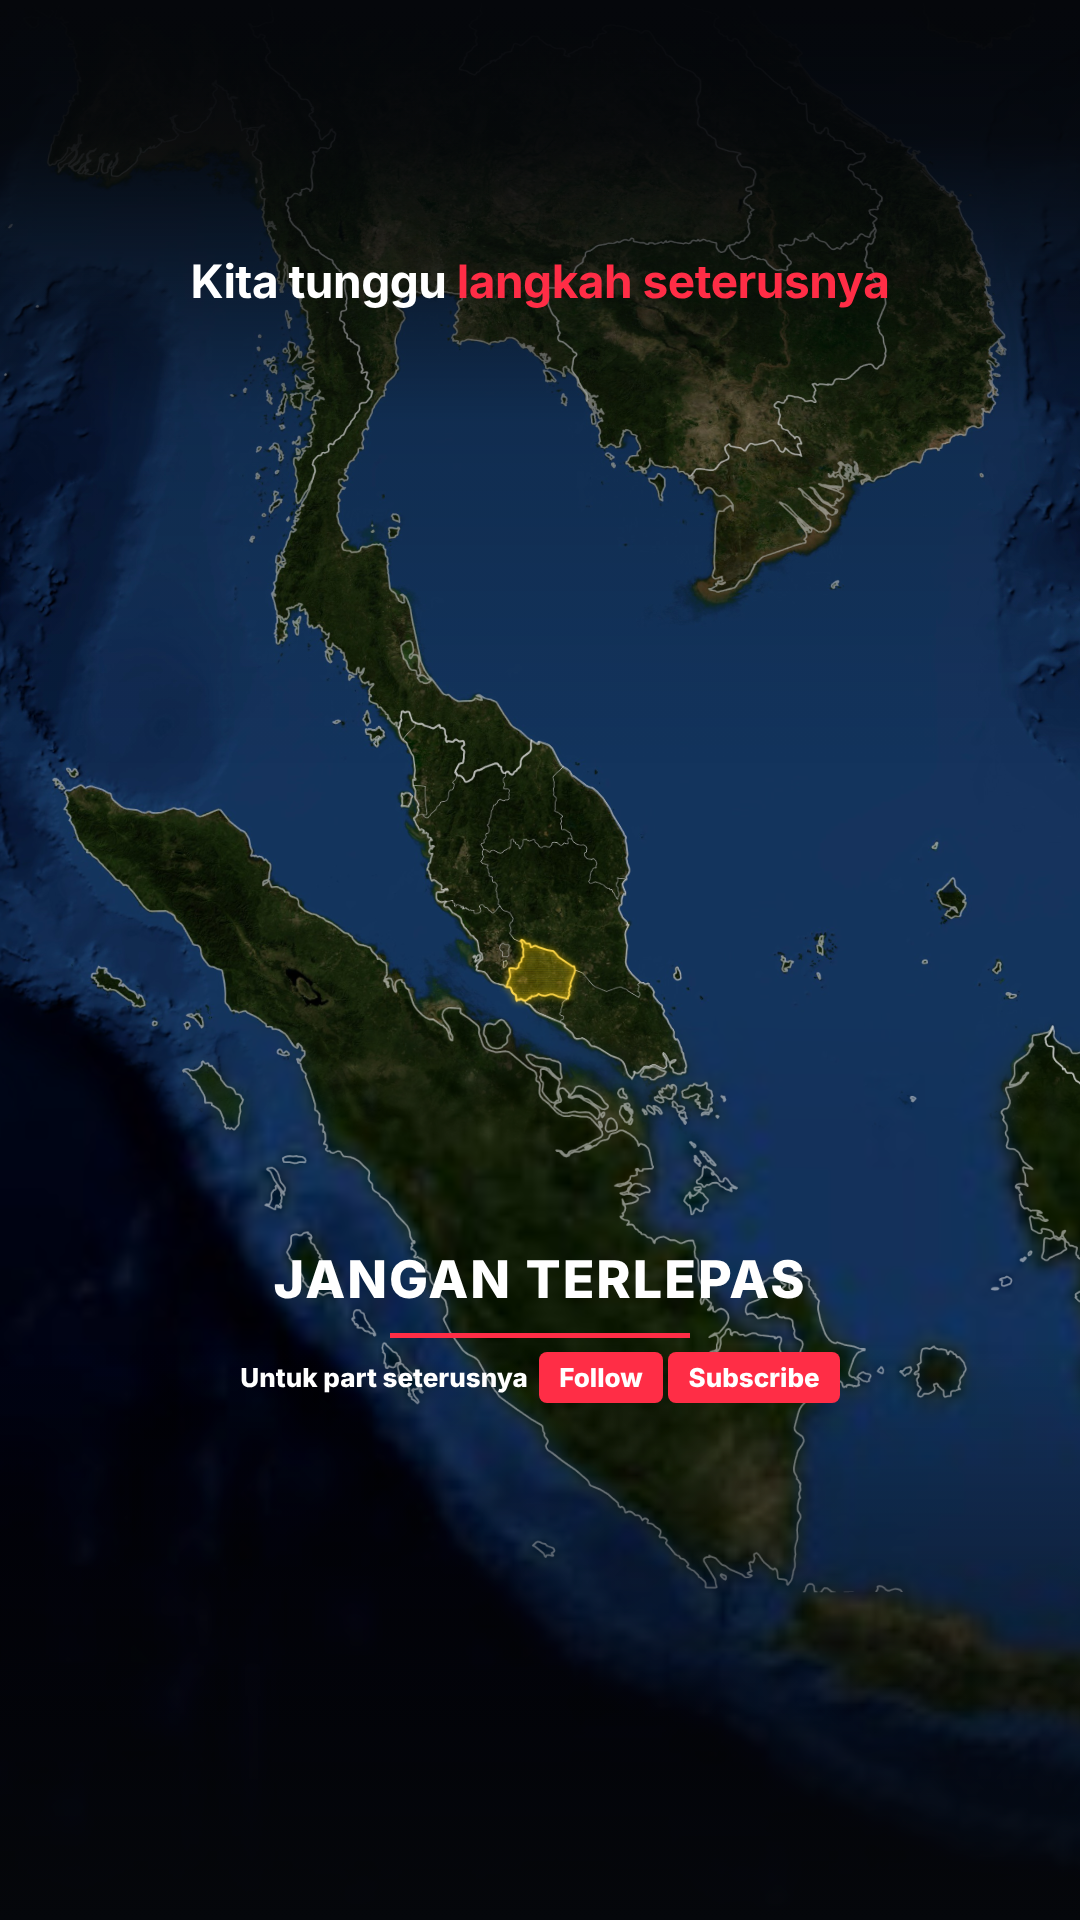
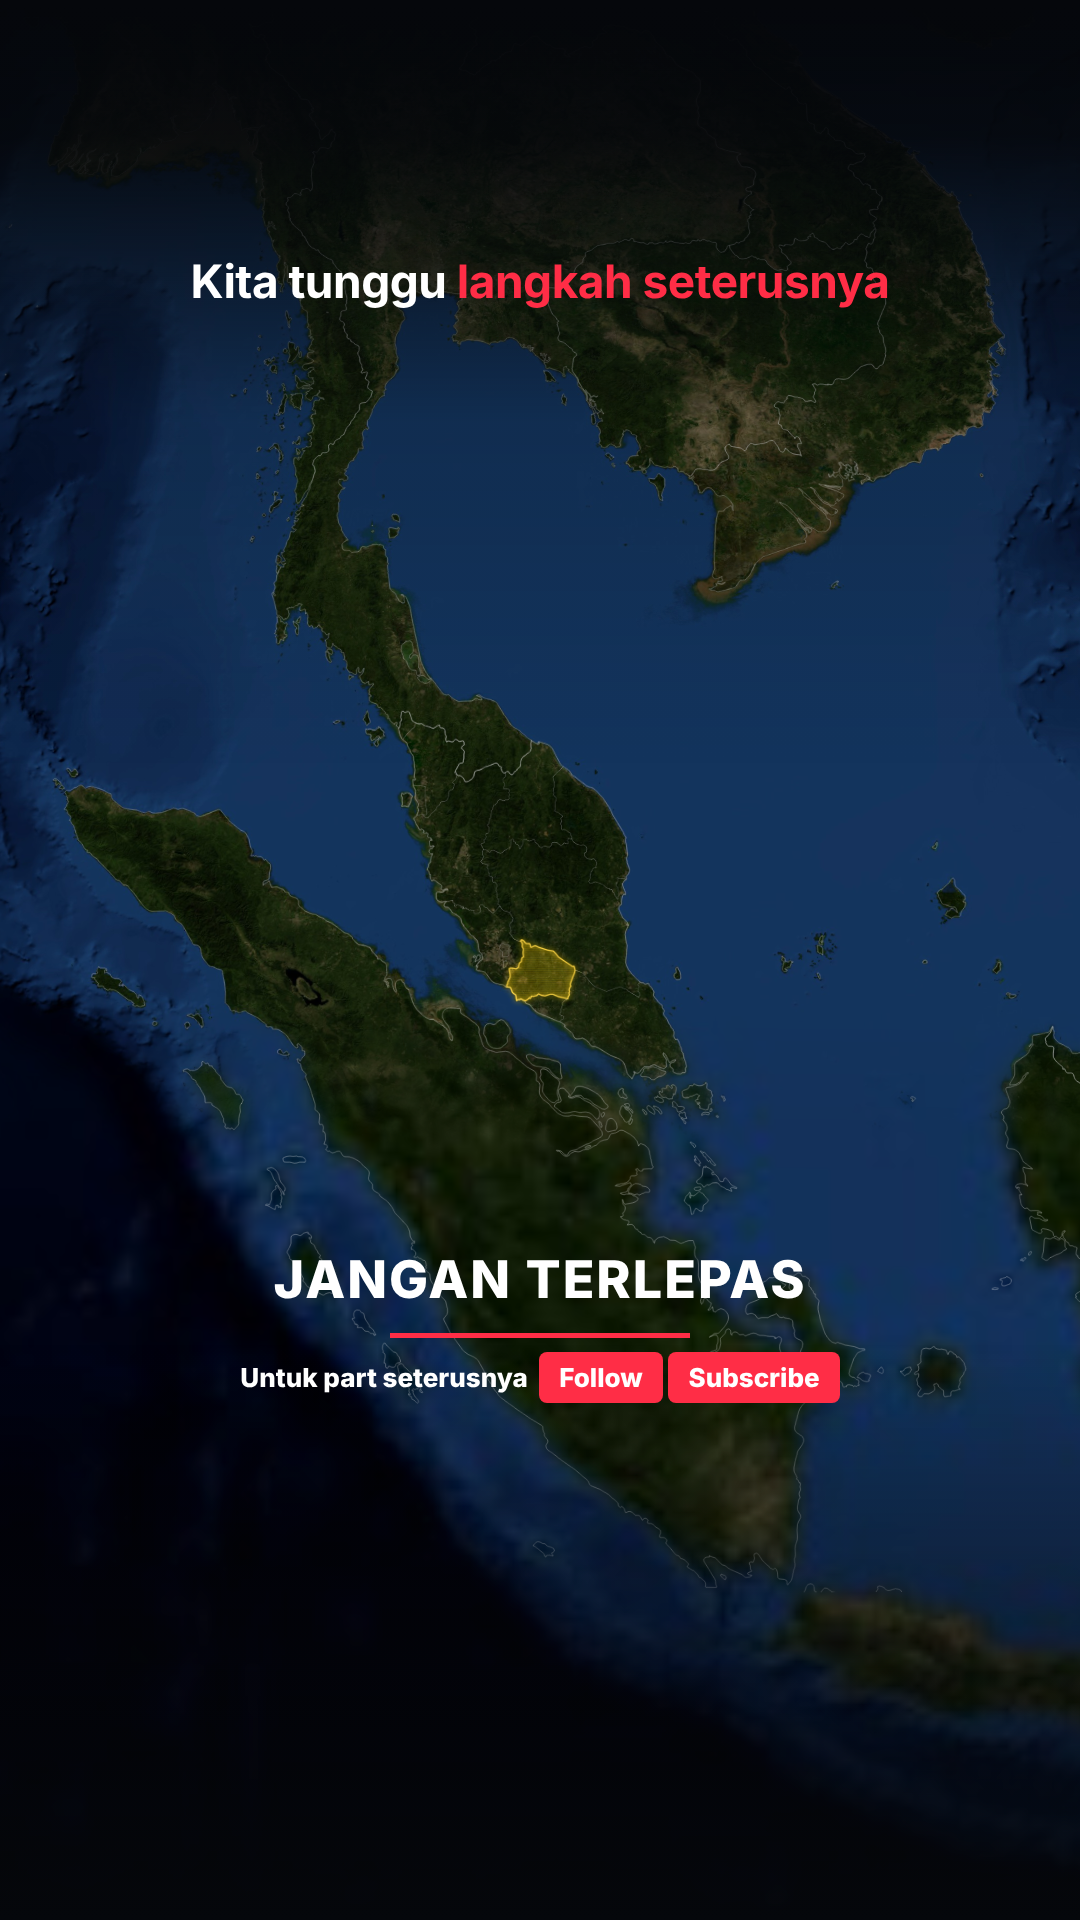
mb9-video: portraits in name card and audience frame
Claude-Session: https://claude.ai/code/session_01GRVCpWmiskqov5jCfdMsbZ

diff --git a/mb9-video/boards/frame.html b/mb9-video/boards/frame.html
@@ -64,6 +64,13 @@ html,body{width:1080px;height:1920px;background:#05070b;overflow:hidden;font-fam
 .ncard{position:absolute;width:760px;display:flex;gap:26px;align-items:center;background:rgba(10,12,17,.94);border-radius:16px;padding:26px 30px;box-shadow:0 24px 60px rgba(0,0,0,.6)}
 .ncard .ini{width:120px;height:120px;border-radius:50%;background:#2a2f38;border:4px solid #fff;display:flex;align-items:center;justify-content:center;font:800 48px Inter;color:#fff;flex:none}
 .ncard .nm{font:800 54px Inter;color:#fff}.ncard .rl{font:700 20px Mono;color:#ffce00;letter-spacing:2px;margin-top:8px}
+.ncard .ini img{width:100%;height:100%;object-fit:cover;border-radius:50%}.ncard .ini{overflow:hidden}
+.duo{position:absolute;top:600px;left:0;right:0;display:flex;justify-content:center;align-items:center;gap:26px}
+.pt{width:300px;background:rgba(10,12,17,.94);border-radius:14px;padding:12px 12px 16px;text-align:center;box-shadow:0 24px 60px rgba(0,0,0,.6)}
+.pt img{width:276px;height:330px;object-fit:cover;object-position:50% 20%;border-radius:8px;display:block;border:3px solid #fff}
+.pt.royal img{border-color:#ffce00}
+.pt b{display:block;font:800 26px Inter;color:#fff;margin-top:12px}.pt i{display:block;font:700 15px Mono;font-style:normal;color:#ffce00;letter-spacing:1.5px;margin-top:6px}
+.duo .arrow{font:800 70px Inter;color:#fff;opacity:.7}
 #tintS{position:absolute;inset:0;background:radial-gradient(ellipse at 50% 50%,rgba(255,30,50,0) 40%,rgba(255,30,50,.45) 100%)}
 </style></head><body>
 <canvas id="gl" width="1080" height="1920"></canvas>
@@ -86,7 +93,7 @@ const red = g.layer("china", 1, { lon0: 72, lon1: 136, lat0: 16, lat1: 54, ppd: 
 const myl = g.layer("malaysia", 2, { lon0: 99, lon1: 120, lat0: 0, lat1: 8, ppd: 160 });
 const lines = g.layer("lines", 3, { lon0: 92, lon1: 140, lat0: -6, lat1: 34, ppd: 80 });
 const near = (f) => { const c = f.geometry.coordinates.flat(3); return true; };
-{ const L = borders, c = L.ctx; c.strokeStyle = "rgba(255,255,255,.5)"; c.lineWidth = 2; c.lineJoin = "round";
+{ const L = borders, c = L.ctx; c.strokeStyle = "rgba(255,255,255,.35)"; c.lineWidth = 1; c.lineJoin = "round";
   for (const f of countries) { L.path(f.geometry); c.stroke(); } L.tex.needsUpdate = true; }
 function chinaRed() {
   const L = red, c = L.ctx; c.save(); L.path(CN.geometry); c.clip("evenodd");
@@ -109,10 +116,10 @@ const N9 = ST.find((f) => f.properties.name === "Negeri Sembilan");
 const stl = g.layer("states", 4, { lon0: 99, lon1: 105, lat0: 0.8, lat1: 7, ppd: 300 });
 function states(n9fill = true) {
   const L = stl, c = L.ctx; c.lineJoin = "round";
-  c.strokeStyle = "rgba(255,255,255,.55)"; c.lineWidth = 3; for (const f of ST) { L.path(f.geometry); c.stroke(); }
+  c.strokeStyle = "rgba(255,255,255,.45)"; c.lineWidth = 1.5; for (const f of ST) { L.path(f.geometry); c.stroke(); }
   if (n9fill) { c.save(); L.path(N9.geometry); c.clip("evenodd"); c.fillStyle = "rgba(255,206,0,.22)"; c.fillRect(0, 0, L.OW, L.OH);
     c.fillStyle = "rgba(255,206,0,.10)"; for (let y = 0; y < L.OH; y += 8) c.fillRect(0, y, L.OW, 3); c.restore(); }
-  c.shadowColor = "#ffce00"; c.shadowBlur = 30; c.strokeStyle = "#ffd84a"; c.lineWidth = 8; L.path(N9.geometry); c.stroke(); c.shadowBlur = 0;
+  c.shadowColor = "#ffce00"; c.shadowBlur = 24; c.strokeStyle = "#ffd84a"; c.lineWidth = 5; L.path(N9.geometry); c.stroke(); c.shadowBlur = 0;
   L.tex.needsUpdate = true;
 }
 const SEREMBAN = [2.7259, 101.9378];
@@ -136,7 +143,7 @@ function seats(top, mode = "party", q = false) {
     <div class="maj">MAJORITI <b>19</b> / 36</div>${leg}</div>`);
 }
 const letter = (x, y, stampTxt) => html(`<div class="letter" style="left:${x}px;top:${y}px"><svg width="260" height="190" viewBox="0 0 260 190"><rect x="4" y="4" width="252" height="182" rx="10" fill="#f4f1ea" stroke="#d9d3c4" stroke-width="3"/><path d="M8 10 L130 100 L252 10" fill="none" stroke="#cfc7b4" stroke-width="5"/>${[0,1,2].map(i=>`<rect x="40" y="${120+i*18}" width="${180-i*40}" height="8" rx="4" fill="#d9d3c4"/>`).join("")}</svg>${stampTxt ? `<div class="stamp" style="left:20px;top:56px;font-size:34px">${stampTxt}</div>` : ""}</div>`);
-const nameCard = (x, y, ini, nm, rl) => html(`<div class="ncard" style="left:${x}px;top:${y}px"><div class="ini">${ini}</div><div><div class="nm">${nm}</div><div class="rl">${rl}</div></div></div>`);
+const nameCard = (x, y, ini, nm, rl, ph) => html(`<div class="ncard" style="left:${x}px;top:${y}px"><div class="ini">${ph ? `<img src="../assets/photos/${ph}">` : ini}</div><div><div class="nm">${nm}</div><div class="rl">${rl}</div></div></div>`);
 // ---------- HTML helpers ----------
 const ov = document.getElementById("ov");
 const FL = {
@@ -209,7 +216,7 @@ const FR = {
   2() { g.setView({ lat: 2.75, lon: 102.1, dist: 0.2, tilt: 18, yShift: 0.12 }); states();
     cap(`2 Ogos lalu, <span class="r">Ismail Lasim</span> <span class="g">angkat sumpah</span>`);
     locPin(SEREMBAN[0], SEREMBAN[1], "SEREMBAN", "IBU NEGERI");
-    nameCard(160, 1120, "IL", "ISMAIL LASIM", "MENTERI BESAR · ADUN JUASSEH"); timeline(1); },
+    nameCard(160, 1120, "IL", "ISMAIL LASIM", "MENTERI BESAR · ADUN JUASSEH", "ismail.jpg"); timeline(1); },
   3() { g.setView({ lat: 2.75, lon: 102.1, dist: 0.24, tilt: 18, yShift: 0.25 }); states();
     cap(`BN menang <span class="r">18</span>, PH <span class="r">11</span>, PN <span class="r">7</span>`);
     seats(820); timeline(1); },
@@ -221,10 +228,11 @@ const FR = {
     cap(`dan surat tu <span class="r">belum disahkan</span>`);
     letter(410, 470, "BELUM DISAHKAN");
     card(1060, "BERNAMA", "17 NOV 2026", `Peletakan Jawatan MB Negeri Sembilan <mark>Perlu Perkenan Tuanku Muhriz</mark> - Istana`, "Tajuk asal · bernama.com"); timeline(3); },
-  6() { g.setView({ lat: 2.72, lon: 101.95, dist: 0.14, tilt: 20, yShift: 0.12 }); states();
+  6() { g.setView({ lat: 2.72, lon: 101.95, dist: 0.14, tilt: 20, yShift: -0.12 }); states();
     cap(`Dia kata dia <span class="r">tak pernah</span> serah surat tu`);
     locPin(2.70, 101.95, "ISTANA HINGGAP", "20 NOV · PAGI", true);
-    card(1060, "BERNAMA", "20 NOV 2026", `Ismail <mark>Tidak Pernah Setuju</mark> Surat Peletakan Jawatan Dikemukakan Kepada Tuanku Muhriz`, "Tajuk asal · bernama.com · kata Ismail"); timeline(4); },
+    html(`<div class="duo"><div class="pt"><img src="../assets/photos/ismail.jpg"><b>ISMAIL LASIM</b><i>MENGHADAP · PAGI TADI</i></div><div class="arrow">›</div><div class="pt royal"><img src="../assets/photos/tuanku.jpg"><b>TUANKU MUHRIZ</b><i>YANG DI-PERTUAN BESAR</i></div></div>`);
+    card(1150, "BERNAMA", "20 NOV 2026", `Ismail <mark>Tidak Pernah Setuju</mark> Surat Peletakan Jawatan Dikemukakan Kepada Tuanku Muhriz`, "Tajuk asal · bernama.com · kata Ismail"); timeline(4); },
   7() { g.setView({ lat: 2.75, lon: 102.1, dist: 0.22, tilt: 18, yShift: 0.12 }); states();
     cap(`mesti buktikan sokongan <span class="r">majoriti</span>`);
     html(`<div id="tintS"></div>`);

diff --git a/mb9-video/boards/storyboard.html b/mb9-video/boards/storyboard.html
@@ -18,14 +18,14 @@ h1{font:800 46px Inter;letter-spacing:-1px}h1 span{color:#ff2d46}
 .fx{font:400 15px/1.45 Inter;color:#9aa3ad}.fx b{color:#ffcf4a;font-weight:700}
 </style></head><body>
 <h1>SIAPA <span>MB</span> NEGERI SEMBILAN? · storyboard</h1>
-<div class="meta">GAYA MAP ANIMATION (politik negeri) · 1080×1920 · ~54 s (VO 1.15×) · sempadan negeri Natural Earth · fakta: research/mb-negeri-sembilan-2026.md · tiada muka sebenar, tiada imej AI</div>
+<div class="meta">GAYA MAP ANIMATION (politik negeri) · 1080×1920 · ~54 s (VO 1.15×) · sempadan negeri Natural Earth · fakta: research/mb-negeri-sembilan-2026.md · gambar tokoh dari pengguna, tiada imej AI</div>
 <div class="grid">
 <div class="f"><img src="frame-01.png"><div><div class="n">01 · 0:00</div><div class="t">Hook</div><div class="vo">"Siapa sebenarnya Menteri Besar Negeri Sembilan? Hari ni pun jawapannya belum jelas."</div><div class="fx">Glob terus junam ke Semenanjung, Negeri Sembilan menyala kuning. Tajuk <b>SIAPA SEBENARNYA MB NEGERI SEMBILAN?</b> slam masuk.</div></div></div>
-<div class="f"><img src="frame-02.png"><div><div class="n">02 · 0:05</div><div class="t">2 Ogos</div><div class="vo">"Ismail Lasim angkat sumpah sebagai Menteri Besar, selepas PRN."</div><div class="fx">Zoom ke N9, pin Seremban. Kad nama <b>tanpa gambar</b> (inisial). Garis masa di bawah: titik <b>2 OGOS</b> menyala.</div></div></div>
+<div class="f"><img src="frame-02.png"><div><div class="n">02 · 0:05</div><div class="t">2 Ogos</div><div class="vo">"Ismail Lasim angkat sumpah sebagai Menteri Besar, selepas PRN."</div><div class="fx">Zoom ke N9, pin Seremban. Kad nama dengan gambar Ismail (dari kau). Garis masa di bawah: titik <b>2 OGOS</b> menyala.</div></div></div>
 <div class="f"><img src="frame-03.png"><div><div class="n">03 · 0:09</div><div class="t">Keputusan PRN</div><div class="vo">"BN menang lapan belas kerusi, PH sebelas, PN tujuh."</div><div class="fx">Carta 36 kerusi isi satu-satu ikut warna, garis putus-putus <b>19 = MAJORITI</b>. Label: keputusan PRN 1 Ogos, bukan sokongan sekarang.</div></div></div>
 <div class="f"><img src="frame-04.png"><div><div class="n">04 · 0:14</div><div class="t">16 Nov</div><div class="vo">"BN umum Ismail dah letak jawatan, dan kata ada surat kepada Tuanku Muhriz."</div><div class="fx">Ikon surat (tiada tulisan boleh dibaca) melayang ke pin Istana Hinggap. Kad Buletin TV3 tajuk asal. Garis masa → <b>16 NOV</b>.</div></div></div>
 <div class="f"><img src="frame-05.png"><div><div class="n">05 · 0:19</div><div class="t">17 Nov</div><div class="vo">"Istana jelaskan: letak jawatan hanya berkuat kuasa dengan perkenan Tuanku. Surat belum disahkan."</div><div class="fx">Cop <b>BELUM DISAHKAN</b> slam atas surat. Kad Bernama, highlight "Perlu Perkenan Tuanku Muhriz".</div></div></div>
-<div class="f"><img src="frame-06.png"><div><div class="n">06 · 0:26</div><div class="t">20 Nov, pagi</div><div class="vo">"Ismail menghadap Tuanku di Istana Hinggap. Dia kata tak pernah serah surat tu."</div><div class="fx">Zoom rapat Seremban, pin <b>ISTANA HINGGAP · 20 NOV · PAGI</b>. Kad Bernama "kata Ismail".</div></div></div>
+<div class="f"><img src="frame-06.png"><div><div class="n">06 · 0:26</div><div class="t">20 Nov, pagi</div><div class="vo">"Ismail menghadap Tuanku di Istana Hinggap. Dia kata tak pernah serah surat tu."</div><div class="fx">Zoom rapat Seremban, pin <b>ISTANA HINGGAP · 20 NOV · PAGI</b>. Dua potret: Ismail › Tuanku Muhriz (potret rasmi, bingkai emas, tanpa kesan/cop). Kad Bernama "kata Ismail".</div></div></div>
 <div class="f"><img src="frame-07.png"><div><div class="n">07 · 0:33</div><div class="t">Kenyataan Istana</div><div class="vo">"Istana tak minta Ismail kekal. Mesti buktikan sokongan majoriti dalam DUN."</div><div class="fx">Tint merah. Kad Bernama, highlight <b>Mesti Buktikan Sokongan Majoriti</b>. Garis masa penuh.</div></div></div>
 <div class="f"><img src="frame-08.png"><div><div class="n">08 · 0:42</div><div class="t">Siapa ada 19?</div><div class="vo">"DUN ada 36 kerusi. Majoriti 19. Soalannya bukan siapa betul, tapi siapa ada 19."</div><div class="fx">Kerusi jadi kelabu, <b>?</b> merah besar di tengah, <b>MAJORITI 19 / 36</b>. Zoom punch.</div></div></div>
 <div class="f"><img src="frame-09.png"><div><div class="n">09 · 0:49</div><div class="t">Penutup</div><div class="vo">"Kita tunggu langkah seterusnya."</div><div class="fx">Tarik balik ke Semenanjung. Outro: JANGAN TERLEPAS + [Follow] [Subscribe].</div></div></div>
